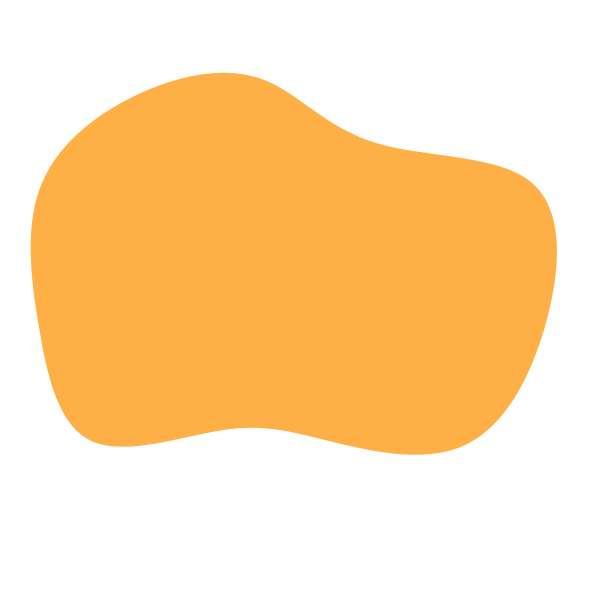
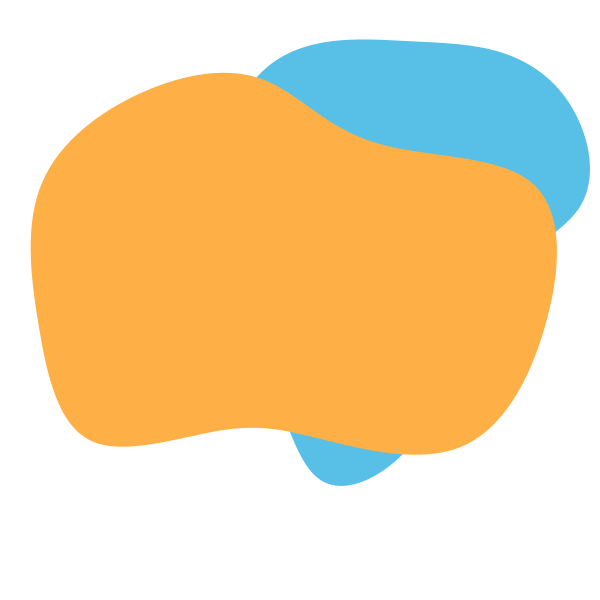
Update background image for profile screen

Changed region(s): [[0.42, 0.06, 0.99, 0.39], [0.48, 0.72, 0.66, 0.81]]

diff --git a/screens/ProfileScreen.js b/screens/ProfileScreen.js
@@ -120,7 +120,7 @@ const styles = StyleSheet.create({
     position: "absolute",
     resizeMode: "contain",
     right: -90,
-    top: -415,
+    top: -380,
     width: "140%",
   },
   userInfoTitle: {
@@ -133,7 +133,7 @@ const styles = StyleSheet.create({
     marginHorizontal: 51,
     alignItems: "flex-start",
     justifyContent: "center",
-    marginTop: 250,
+    marginTop: 280,
   },
   userInfoData: {
     fontSize: 20,
@@ -158,5 +158,6 @@ const styles = StyleSheet.create({
     flex: 1,
     flexDirection: "row",
     justifyContent: "center",
+    marginTop: 30,
   },
 });
